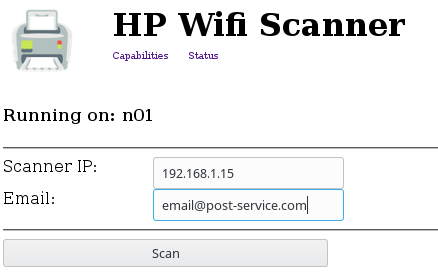
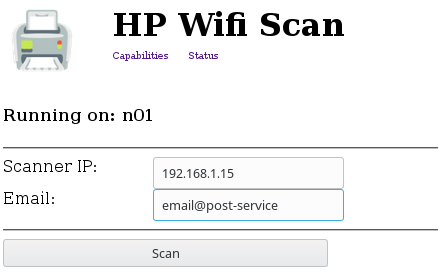
Updating title and screenshot

Changed region(s): [[0.7717, 0.058, 0.9201, 0.1449], [0.6233, 0.7246, 0.7123, 0.7826]]

diff --git a/index.php b/index.php
@@ -49,7 +49,7 @@ if ($action == "scan")
 
             <div style="float:left;margin-left:30px;padding:0px;">
 
-                <h1 style="margin-top:5px;margin-bottom: 0px;">HP Wifi Scanner</h1>
+                <h1 style="margin-top:5px;margin-bottom: 0px;">HP Wifi Scan</h1>
                 <?php
                 if ($ip != "")
                 {
